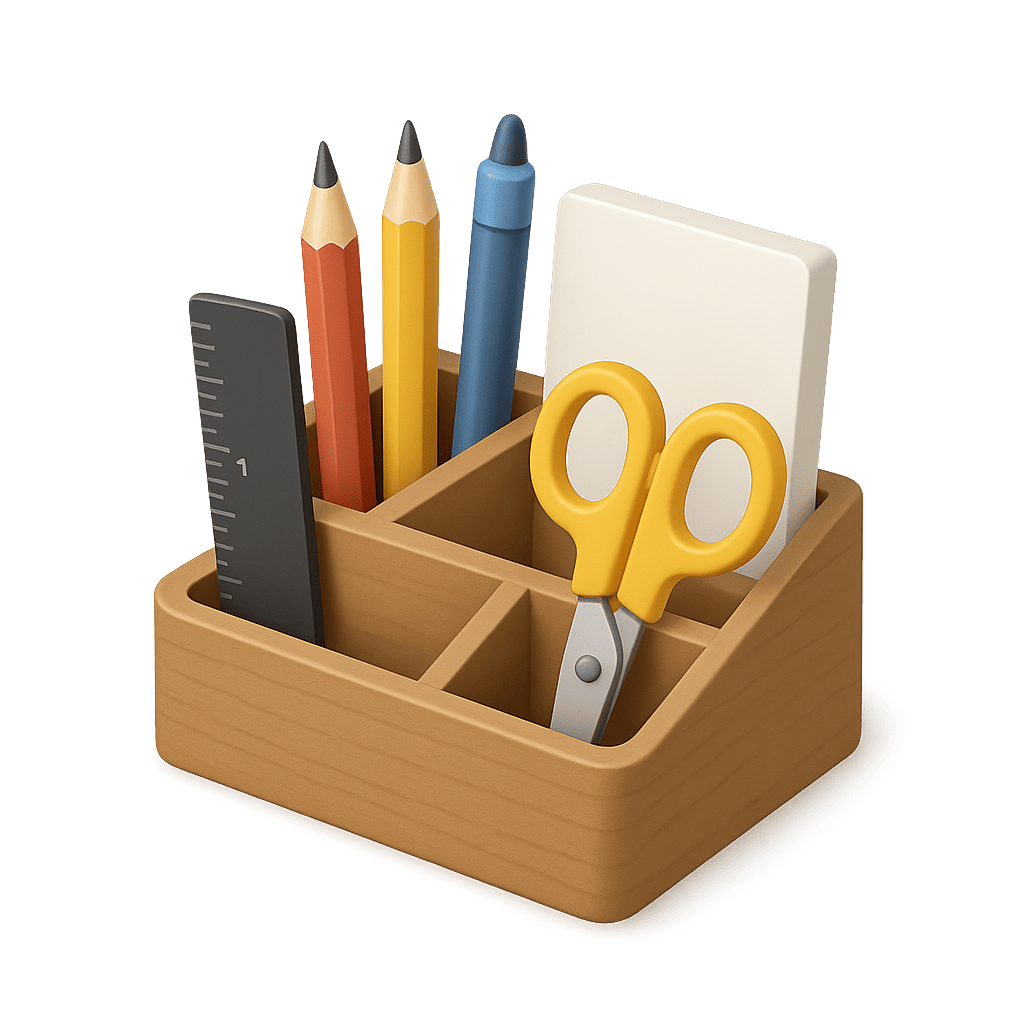
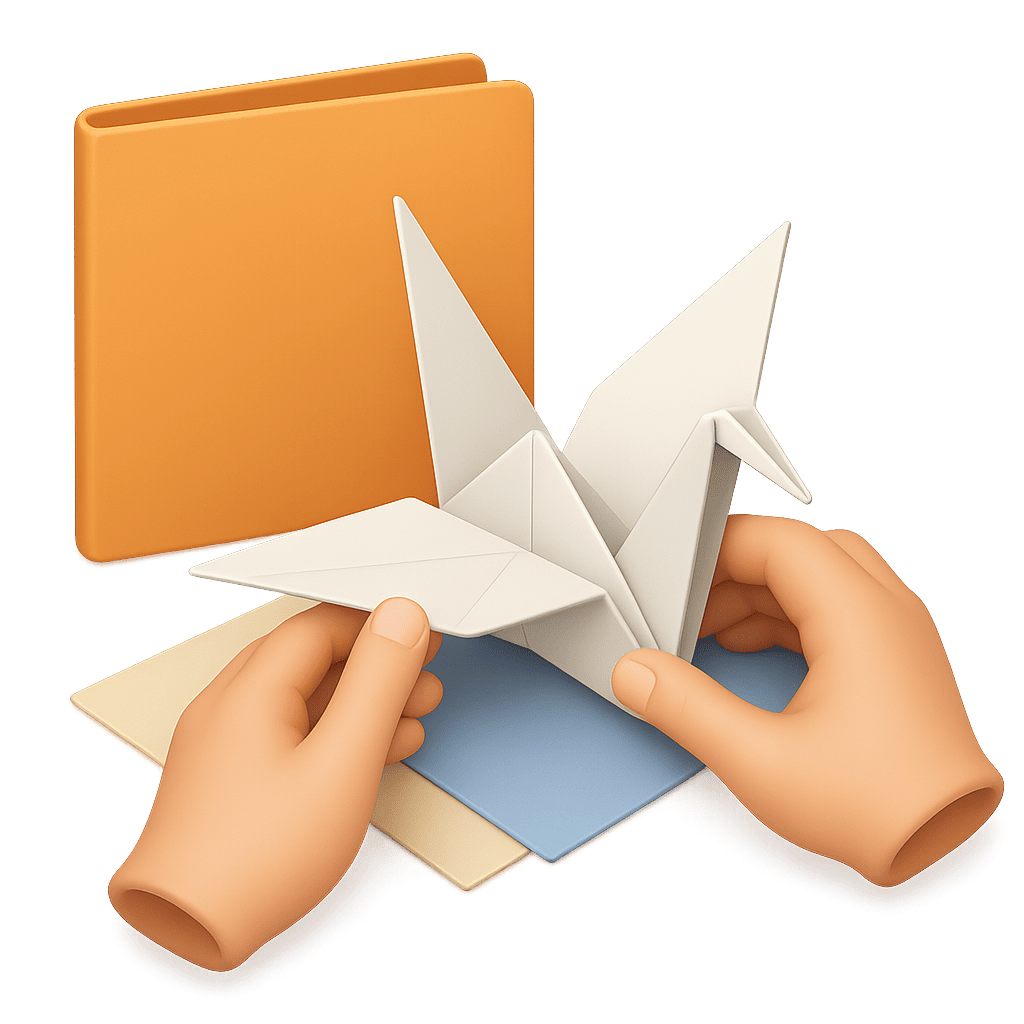
Antes de implementar pedido en sitio

diff --git a/src/seed/seed.ts b/src/seed/seed.ts
@@ -41,6 +41,7 @@ export const initialData: SeedData = {
     { id: '15', nombre: 'Inmuebles - Propiedades', iconName: 'inmuebles.png', slug: 'inmuebles', isActive: true },
     { id: '16', nombre: 'Hospedaje y turismo', iconName: 'hospedaje.png', slug: 'hospedaje', isActive: true },
     { id: '17', nombre: 'Servicios profesionales', iconName: 'servicios-profesionales.png', slug: 'servicios', isActive: true },
+    { id: '18', nombre: 'Negocios', iconName: 'negocios.png', slug: 'negocios', isActive: true },
   ],
   secciones: [
     // Moda y Accesorios
@@ -130,6 +131,7 @@ export const initialData: SeedData = {
     { id: 's37', nombre: 'Cuidado Facial', iconName: 'skincare.png', slug: 'cuidado-facial', href: '/productos/belleza/cuidado-facial', order: 2, isActive: true, categorySlug: 'belleza' },
     { id: 's36', nombre: 'Maquillaje', iconName: 'maquillaje.png', slug: 'maquillaje', href: '/productos/belleza/maquillaje', order: 1, isActive: true, categorySlug: 'belleza' },
     { id: 's39', nombre: 'Perfumes', iconName: 'perfumes.png', slug: 'perfumes', href: '/productos/belleza/perfumes', order: 4, isActive: true, categorySlug: 'belleza' },
+    { id: 's159', nombre: 'Uñas', iconName: 'unas.png', slug: 'unas', href: '/productos/belleza/unas', order: 4, isActive: true, categorySlug: 'belleza' },
 
     // Salud y Bienestar
     { id: 's43', nombre: 'Botiquín', iconName: 'botiquin.png', slug: 'botiquin', href: '/productos/salud/botiquin', order: 3, isActive: true, categorySlug: 'salud' },
@@ -181,7 +183,7 @@ export const initialData: SeedData = {
     { id: 's105', nombre: 'Limonadas', iconName: 'limonadas.png', slug: 'limonadas', href: '/productos/bebidas/limonadas', order: 11, isActive: true, categorySlug: 'bebidas' },
     { id: 's106', nombre: 'Malteadas', iconName: 'malteadas.png', slug: 'malteadas', href: '/productos/bebidas/malteadas', order: 12, isActive: true, categorySlug: 'bebidas' },
     { id: 's111', nombre: 'Otras bebidas ', iconName: 'otrasBebidas.png', slug: 'ron', href: '/productos/bebidas/ron', order: 17, isActive: true, categorySlug: 'bebidas' },
-    { id: 's128', nombre: 'Smothies', iconName: 'smothies.webp', slug: 'smothies', href: '/productos/bebidas/smothies', order: 18, isActive: true, categorySlug: 'bebidas' },
+    { id: 's128', nombre: 'Smothies', iconName: 'postres.png', slug: 'smothies', href: '/productos/bebidas/smothies', order: 18, isActive: true, categorySlug: 'bebidas' },
     { id: 's103', nombre: 'Té', iconName: 'tes.png', slug: 'tes', href: '/productos/bebidas/tes', order: 7, isActive: true, categorySlug: 'bebidas' },
     { id: 's104', nombre: 'Vinos', iconName: 'vinos.png', slug: 'vinos', href: '/productos/bebidas/vinos', order: 8, isActive: true, categorySlug: 'bebidas' },
     { id: 's65', nombre: 'Whiskies', iconName: 'whisky.png', slug: 'whiskies', href: '/productos/bebidas/whiskies', order: 5, isActive: true, categorySlug: 'bebidas' },
@@ -220,5 +222,20 @@ export const initialData: SeedData = {
     { id: 's148', nombre: 'Otros Servicios', iconName: 'servicios.png', slug: 'otros-servicios', href: '/productos/servicios/otros-servicios', order: 4, isActive: true, categorySlug: 'servicios' },
     { id: 's146', nombre: 'Reparaciones y Mantenimiento', iconName: 'reparaciones.png', slug: 'reparaciones-mantenimiento', href: '/productos/servicios/reparaciones-mantenimiento', order: 2, isActive: true, categorySlug: 'servicios' },
 
+    // Negocios
+    { id: 's160', nombre: 'Alimentos', iconName: 'alimentos.png', slug: 'alimentos', href: '/productos/negocios/alimentos', order: 1, isActive: true, categorySlug: 'negocios' },
+    { id: 's172', nombre: 'Bebidas Alcohólicas', iconName: 'bebidas.png', slug: 'bebidas-alcoholicas', href: '/productos/negocios/bebidas', order: 15, isActive: true, categorySlug: 'negocios' },
+    { id: 's170', nombre: 'Carnes y Embutidos', iconName: 'carnes-embutidos.png', slug: 'carnes-embutidos', href: '/productos/negocios/carnes-embutidos', order: 11, isActive: true, categorySlug: 'negocios' },
+    { id: 's162', nombre: 'Cuidado Personal', iconName: 'cuidado-personal.png', slug: 'cuidado-personal', href: '/productos/negocios/cuidado-personal', order: 3, isActive: true, categorySlug: 'negocios' },
+    { id: 's163', nombre: 'Frutas y Verduras', iconName: 'frutas-verduras.png', slug: 'frutas-verduras', href: '/productos/negocios/frutas-verduras', order: 4, isActive: true, categorySlug: 'negocios' },
+    { id: 's164', nombre: 'Hogar Básico', iconName: 'hogar-basico.png', slug: 'hogar-basico', href: '/productos/negocios/hogar-basico', order: 5, isActive: true, categorySlug: 'negocios' },
+    { id: 's165', nombre: 'Lácteos', iconName: 'lacteos.png', slug: 'lacteos', href: '/productos/negocios/lacteos', order: 6, isActive: true, categorySlug: 'negocios' },
+    { id: 's166', nombre: 'Limpieza', iconName: 'limpieza.png', slug: 'limpieza', href: '/productos/negocios/limpieza', order: 7, isActive: true, categorySlug: 'negocios' },
+    { id: 's171', nombre: 'Panadería y Pastelería', iconName: 'panaderia-pasteleria.png', slug: 'panaderia-pasteleria', href: '/productos/negocios/panaderia-pasteleria', order: 14, isActive: true, categorySlug: 'negocios' },
+    { id: 's167', nombre: 'Papelería y Miscelaneas', iconName: 'papeleria.png', slug: 'papeleria-miscelaneas', href: '/productos/negocios/papeleria', order: 8, isActive: true, categorySlug: 'negocios' },
+    { id: 's168', nombre: 'Regalos y detalles', iconName: 'regalos.png', slug: 'regalos', href: '/productos/negocios/regalos', order: 9, isActive: true, categorySlug: 'negocios' },
+    { id: 's169', nombre: 'Snacks y Dulces', iconName: 'snacks.png', slug: 'snacks-dulces', href: '/productos/negocios/snacks-dulces', order: 10, isActive: true, categorySlug: 'negocios' },
+    { id: 's173', nombre: 'Herramientas', iconName: 'herramientas.png', slug: 'herramientas', href: '/productos/negocios/snacks-dulces', order: 10, isActive: true, categorySlug: 'negocios' },
+    
   ],
 };

diff --git a/src/ui/components/dashboard/perfil/CompletePerfil.tsx b/src/ui/components/dashboard/perfil/CompletePerfil.tsx
@@ -35,6 +35,7 @@ import { actualizarPerfilNegocio } from "@/actions/perfil/actualizarPerfil";
 import AutoUploadMedia from "../../autoUpload/AutoUploadMedia";
 import { motion, AnimatePresence } from "framer-motion";
 import { FaCheckCircle, FaTimesCircle, FaTimes } from "react-icons/fa";
+import Image from "next/image";
 
 interface InformacionInicialNegocio {
   nombreNegocio: string;
@@ -492,7 +493,6 @@ export const CompletePerfil = ({ informacionNegocio }: Props) => {
             render={() => (
               <Stack direction="row" spacing={1} flexWrap="wrap" rowGap={1}>
                 {initialData.categorias.map((category) => {
-                  const IconComponent = iconMap[category.iconName] || RiIcons.RiQuestionLine;
                   const isSelected = selectedCategorySlugs.has(category.slug);
                   return (
                     <Box
@@ -519,7 +519,13 @@ export const CompletePerfil = ({ informacionNegocio }: Props) => {
                         },
                       }}
                     >
-                      <IconComponent size={18} style={{ marginRight: 8 }} />
+                      <Image
+                        src={`/imgs/iconos/${category.iconName}`}
+                        alt={category.nombre}
+                        width={18}
+                        height={18}
+                        style={{ marginRight: 8 }}
+                      />
                       <Typography variant="body2" sx={{ fontWeight: 500 }}>
                         {category.nombre}
                       </Typography>
@@ -576,6 +582,13 @@ export const CompletePerfil = ({ informacionNegocio }: Props) => {
                       },
                     }}
                   >
+                    <Image
+                      src={`/imgs/iconos/${section.iconName}`}
+                      alt={section.nombre}
+                      width={18}
+                      height={18}
+                      style={{ marginRight: 8 }}
+                    />
                     <Typography variant="body2" sx={{ fontWeight: 500 }}>
                       {section.nombre}
                     </Typography>

diff --git a/src/app/(catalogo)/reservas/[slug]/page.tsx b/src/app/(catalogo)/reservas/[slug]/page.tsx
@@ -53,7 +53,7 @@ export default async function ReservasPage({ params }: Props) {
   if (errorOccurred || !configReservation?.config) {
     // Mensaje de error: Elegante, moderno y premium (centrado, con icono, sombra suave y botón retry)
     return (
-      <div className="sm:mt-40 flex min-h-screen items-center justify-center bg-gray-50 px-4">
+      <div className="sm:mt-60 flex min-h-screen items-center justify-center bg-gray-50 px-4">
         <div className="max-w-md w-full bg-white rounded-lg shadow-md p-6 text-center space-y-4 transform transition-all duration-300 hover:shadow-lg">
           <FaExclamationTriangle className="mx-auto text-yellow-500 text-5xl mb-2" aria-hidden="true" />
           <h2 className="text-xl font-semibold text-gray-800">Error al obtener la configuración de reservas</h2>
@@ -74,7 +74,7 @@ export default async function ReservasPage({ params }: Props) {
 
   if (!session) {
     return (
-      <div className="sm:mt-40 flex min-h-screen items-center justify-center bg-gray-50 px-4">
+      <div className="sm:mt-60 flex min-h-screen items-center justify-center bg-gray-50 px-4">
         <div className="max-w-md w-full bg-white rounded-lg shadow-lg p-6 text-center space-y-4">
           <FaExclamationTriangle className="mx-auto text-red-500 text-5xl mb-2" />
           <h2 className="text-xl font-semibold text-gray-800">
@@ -96,7 +96,7 @@ export default async function ReservasPage({ params }: Props) {
 
   // Si éxito, renderiza el dashboard con config (elegante y responsive wrapper)
   return (
-    <div className="sm:mt-40 p-4 sm:p-8 bg-gray-50 min-h-screen">
+    <div className="sm:mt-60 p-4 sm:p-8 bg-gray-50 min-h-screen">
       <ReservasUserDashboard config={configReservation.config}  />
     </div>
   );

diff --git a/src/ui/components/productos/DetallesProducto.tsx b/src/ui/components/productos/DetallesProducto.tsx
@@ -285,7 +285,7 @@ export const DetallesProducto: React.FC<AddToCartProps> = ({ product, telefonoNe
       
                       {/* Producto */}
                       <div className="text-center mb-6">
-                        <p className="text-2xl font-bold text-gray-00">{product.nombre}</p>
+                        <p className="text-2xl font-bold text-gray-900">{product.nombre}</p>
                         <p className="text-lg font-semibold text-gray-700 mt-1">
                           ${new Intl.NumberFormat("es-CO").format(product.precio)}
                         </p>

diff --git a/src/app/(catalogo)/favoritos/page.tsx b/src/app/(catalogo)/favoritos/page.tsx
@@ -6,7 +6,7 @@ export const dynamic = "force-dynamic"; // Asegura que la acción no use caché
 
 export default function FavoritePage() {
   return (
-    <div className="container mx-auto p-2 sm:mt-10 mb-10">
+    <div className="container mx-auto p-2 sm:mt-20 mb-10">
       {/* Título con Icono */}
       <div className="flex items-center justify-center sm:mt-40">
         <FaHeart className="text-red-500 text-4xl mr-3" />

diff --git a/src/transacciones/componentes/AddTransactionComponent.tsx b/src/transacciones/componentes/AddTransactionComponent.tsx
@@ -590,7 +590,7 @@ const localDateStr = todayLocal.toLocaleDateString('sv-SE'); // formato YYYY-MM-
                       opacity: isSubmitting ? 0.7 : 1,
                     }}
                   >
-                    {isSubmitting ? "Agregando..." : "Agregar"}
+                    {isSubmitting ? "Agregando..." : "Crear transacción"}
                   </Button>
                 </span>
               </Tooltip>

diff --git a/src/app/(catalogo)/[categoria]/[seccion]/[slug]/page.tsx b/src/app/(catalogo)/[categoria]/[seccion]/[slug]/page.tsx
@@ -77,7 +77,7 @@ export default async function ProductPage({ params }: Props) {
         </div>
 
         {/* Detalles del producto */}
-        <div className="flex flex-col space-y-6 md:space-y-4 md:flex-grow">
+        <div className="flex flex-col sm:mt-10 space-y-6 md:space-y-4 md:flex-grow">
           <DetallesProducto product={product} telefonoNegocio={telefonoNegocio} />
         </div>
       </div>
